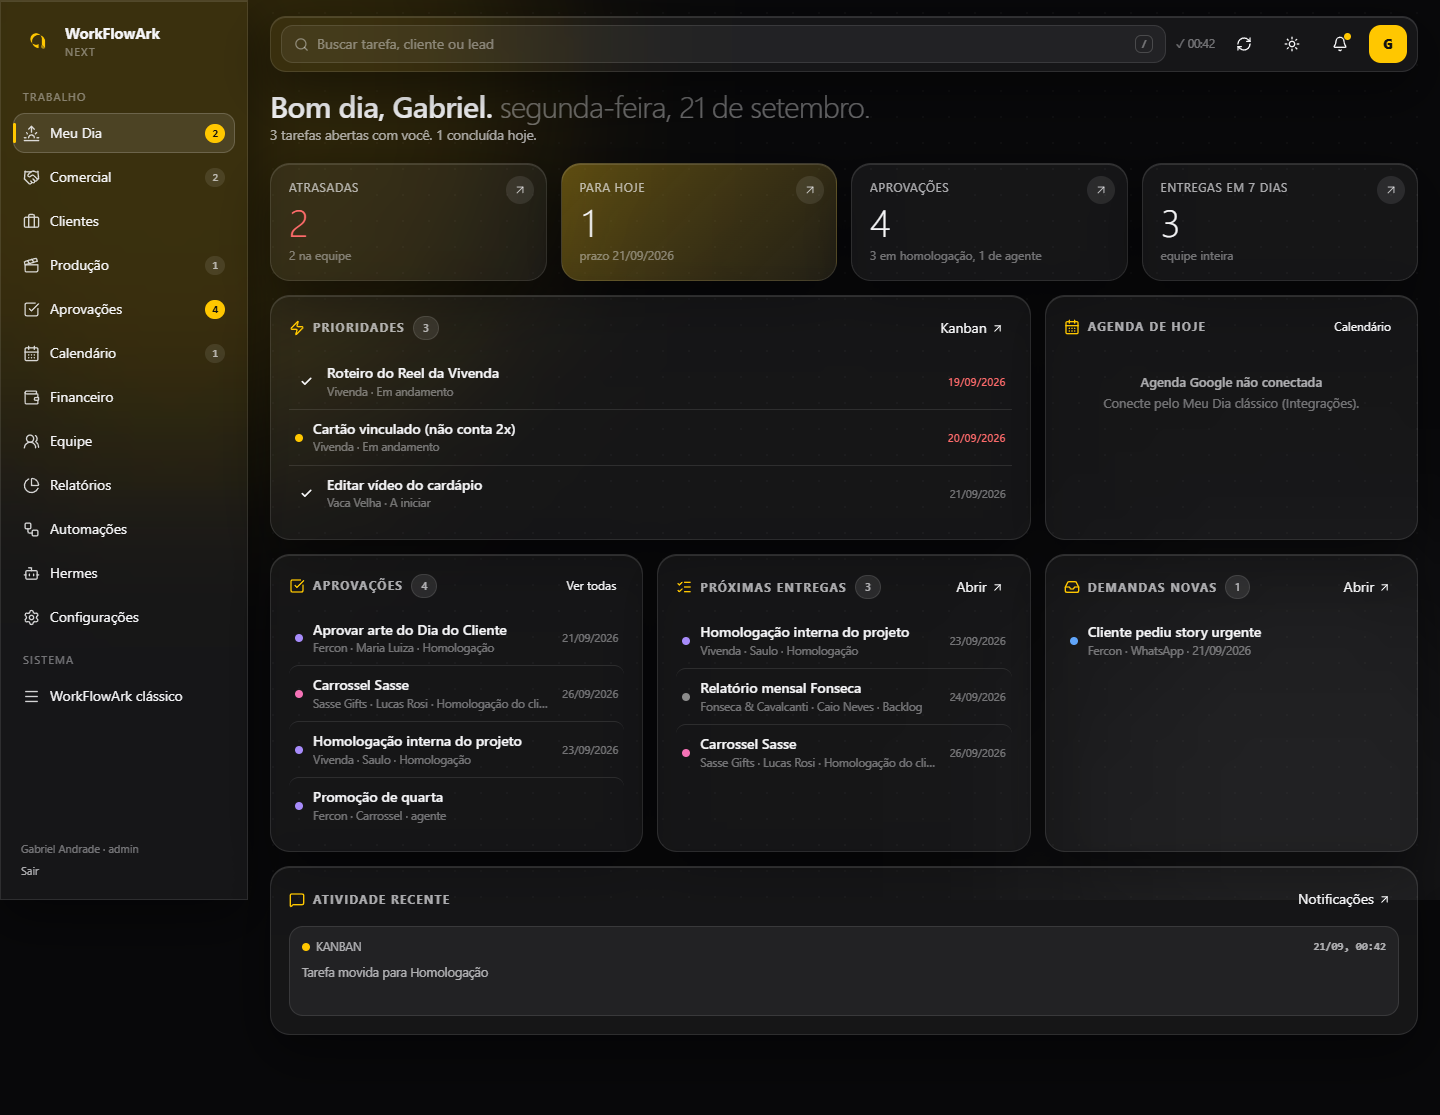
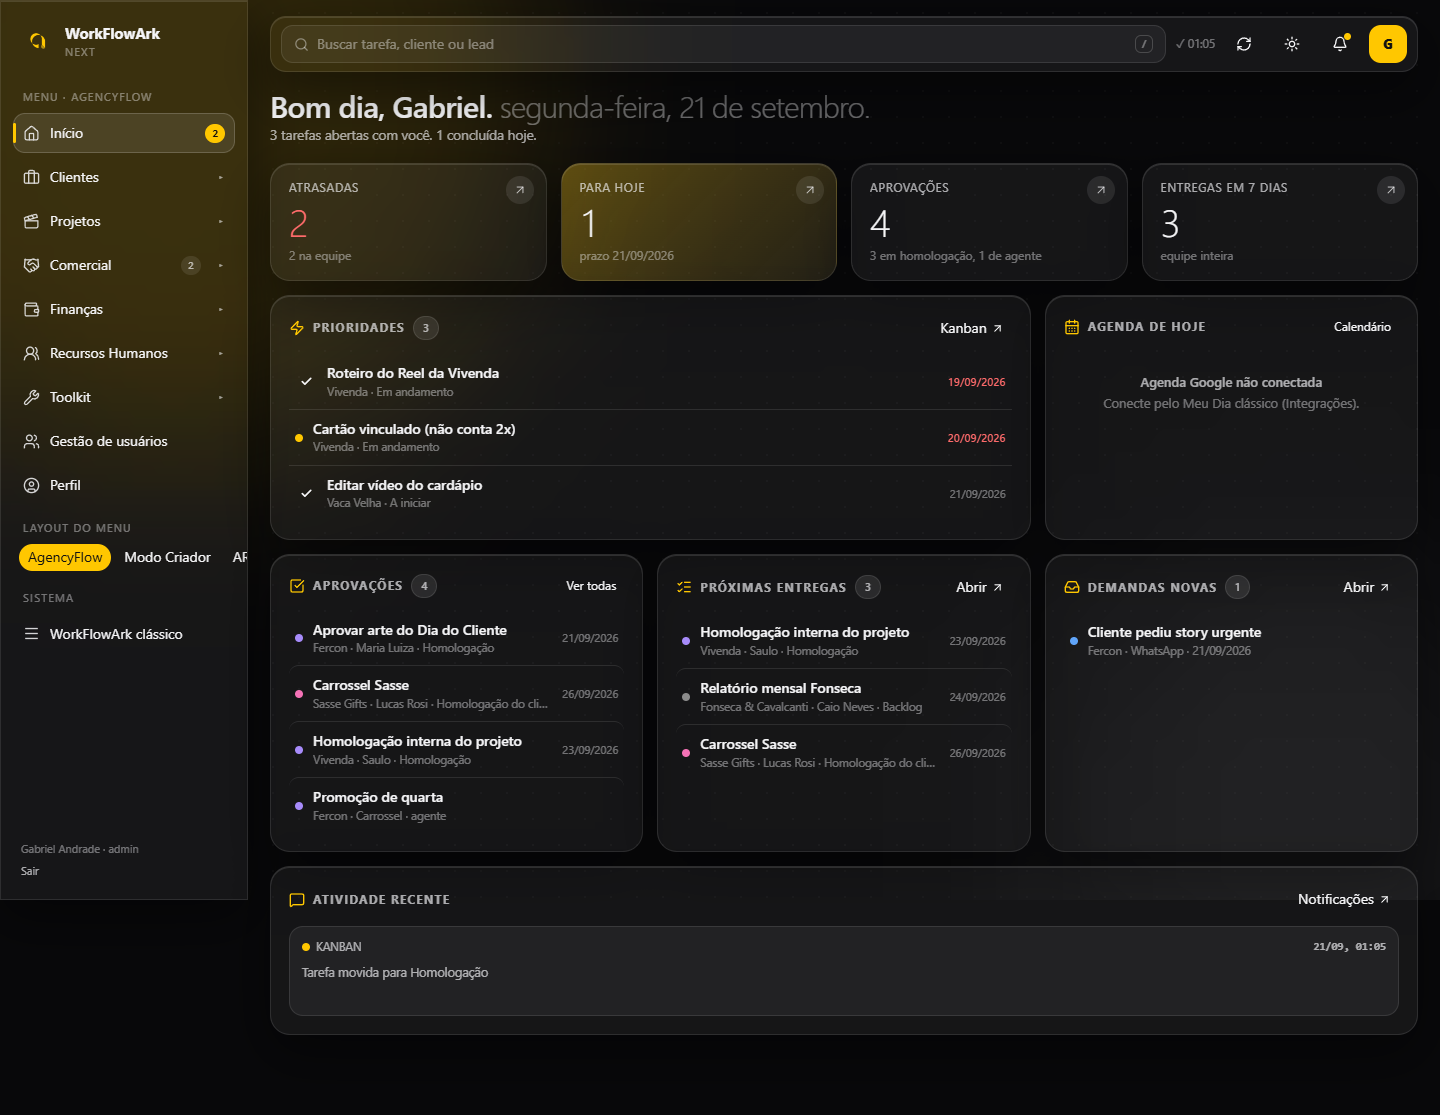
Painel: sidebar com os tópicos e abas do AgencyFlow e do Modo Criador (visual ARK), alternável com o menu ARK

diff --git a/src/components/next/menus.tsx b/src/components/next/menus.tsx
@@ -1,0 +1,117 @@
+// Sidebars copiadas dos benchmarks (21/09/2026, pedido do Gabriel): a estrutura exata de
+// grupos e subitens do AgencyFlow (05-MATRIZ, E01 a E05) e do Modo Criador (06, s35), cada
+// item apontando pra tela NOSSA que faz aquele trabalho. Terceira opcao: menu ARK original.
+import type { ComponentType } from "react";
+import {
+  BarChart3, BookOpen, Briefcase, CalendarDays, CheckSquare, Clapperboard, FileSignature, FolderOpen,
+  Handshake, HelpCircle, Home, Image, Inbox, Instagram, Landmark, LayoutDashboard, ListTodo, PieChart,
+  Settings, ShoppingBag, Sunrise, Trash2, UserCircle, Users, UsersRound, Wallet, Wrench,
+} from "lucide-react";
+
+export type Destino =
+  | { tipo: "painel"; area: string }
+  | { tipo: "classico"; pagina: string }
+  | { tipo: "href"; href: string };
+export type ItemMenu = { label: string; Icon?: ComponentType<{ size?: number; strokeWidth?: number }>; destino: Destino; filhos?: ItemMenu[]; badge?: string };
+export type MenuDef = { id: "agencyflow" | "modocriador" | "ark"; nome: string; fonte: string; itens: ItemMenu[] };
+
+const P = (area: string): Destino => ({ tipo: "painel", area });
+const C = (pagina: string): Destino => ({ tipo: "classico", pagina });
+const H = (href: string): Destino => ({ tipo: "href", href });
+
+export const MENU_AGENCYFLOW: MenuDef = {
+  id: "agencyflow", nome: "AgencyFlow", fonte: "estrutura observada em E01 a E05",
+  itens: [
+    { label: "Início", Icon: Home, destino: P(""), badge: "" },
+    { label: "Clientes", Icon: Briefcase, destino: P("clientes"), filhos: [
+      { label: "Gestão de clientes", destino: P("clientes") },
+      { label: "Análise de churn", destino: P("clientes") },
+      { label: "Contratos", destino: C("contratos") },
+    ] },
+    { label: "Projetos", Icon: Clapperboard, destino: P("producao"), filhos: [
+      { label: "Gestão de entregas", destino: P("producao") },
+      { label: "Tarefas", destino: C("tarefas") },
+      { label: "Agenda de projetos", destino: P("calendario") },
+      { label: "Aprovação de conteúdo", destino: P("aprovacoes"), badge: "aprovacoes" },
+      { label: "Fornecedores", destino: C("alpha") },
+      { label: "Creators", destino: P("equipe") },
+    ] },
+    { label: "Comercial", Icon: Handshake, destino: P("comercial"), badge: "comercial", filhos: [
+      { label: "CRM", destino: P("comercial") },
+      { label: "Esteira de produtos", destino: C("propostas") },
+    ] },
+    { label: "Finanças", Icon: Wallet, destino: P("financeiro"), filhos: [
+      { label: "Recebimentos", destino: P("financeiro") },
+      { label: "Contas a pagar", destino: C("acerto") },
+      { label: "Inadimplência", destino: C("cobranca") },
+      { label: "Relatórios", destino: P("relatorios") },
+    ] },
+    { label: "Recursos Humanos", Icon: UsersRound, destino: P("equipe"), filhos: [
+      { label: "Colaboradores", destino: P("equipe") },
+      { label: "Organograma", destino: C("organograma") },
+      { label: "Rotinas", destino: P("automacoes") },
+    ] },
+    { label: "Toolkit", Icon: Wrench, destino: C("integracoes"), filhos: [
+      { label: "Integrações", destino: C("integracoes") },
+      { label: "Drive", destino: C("drive") },
+      { label: "Notificações", destino: C("notificacoes") },
+    ] },
+    { label: "Gestão de usuários", Icon: Users, destino: P("configuracoes") },
+    { label: "Perfil", Icon: UserCircle, destino: P("configuracoes") },
+  ],
+};
+
+export const MENU_MODOCRIADOR: MenuDef = {
+  id: "modocriador", nome: "Modo Criador", fonte: "barra lateral observada (s35, v2-026)",
+  itens: [
+    { label: "Minhas demandas", Icon: ListTodo, destino: P(""), badge: "" },
+    { label: "Dashboard", Icon: LayoutDashboard, destino: P("relatorios") },
+    { label: "Clientes", Icon: FolderOpen, destino: P("clientes"), filhos: [
+      { label: "Social media", destino: P("clientes") },
+      { label: "Novo cliente", destino: C("lista-clientes") },
+    ] },
+    { label: "Biblioteca", Icon: BookOpen, destino: C("drive") },
+    { label: "Instagram", Icon: Instagram, destino: H("/calendario"), filhos: [
+      { label: "Atividade", destino: C("campanhas") },
+      { label: "Calendário", destino: H("/calendario") },
+    ] },
+    { label: "Vendas", Icon: ShoppingBag, destino: P("comercial"), badge: "comercial" },
+    { label: "Seleção de fotos", Icon: Image, destino: C("drive") },
+    { label: "Lixeira", Icon: Trash2, destino: C("tarefas") },
+    { label: "Visão geral", Icon: PieChart, destino: P("relatorios"), filhos: [
+      { label: "Jornada do cliente", destino: C("jornada") },
+      { label: "Margem por cliente", destino: P("financeiro") },
+      { label: "Pagamentos", destino: C("cobranca") },
+    ] },
+    { label: "Financeiro", Icon: Landmark, destino: P("financeiro"), filhos: [
+      { label: "Seu plano", destino: P("financeiro") },
+    ] },
+    { label: "Equipe", Icon: UsersRound, destino: P("equipe"), filhos: [
+      { label: "Rotina", destino: P("automacoes") },
+      { label: "Membros", destino: P("equipe") },
+      { label: "Relatório", destino: P("relatorios") },
+      { label: "Auditoria de produção", destino: C("notificacoes") },
+    ] },
+    { label: "Ajuda", Icon: HelpCircle, destino: C("tutorial") },
+  ],
+};
+
+export const MENU_ARK: MenuDef = {
+  id: "ark", nome: "ARK", fonte: "áreas por trabalho",
+  itens: [
+    { label: "Meu Dia", Icon: Sunrise, destino: P(""), badge: "" },
+    { label: "Comercial", Icon: Handshake, destino: P("comercial"), badge: "comercial" },
+    { label: "Clientes", Icon: Briefcase, destino: P("clientes") },
+    { label: "Produção", Icon: Clapperboard, destino: P("producao"), badge: "producao" },
+    { label: "Aprovações", Icon: CheckSquare, destino: P("aprovacoes"), badge: "aprovacoes" },
+    { label: "Calendário", Icon: CalendarDays, destino: P("calendario"), badge: "calendario" },
+    { label: "Financeiro", Icon: Wallet, destino: P("financeiro") },
+    { label: "Equipe", Icon: UsersRound, destino: P("equipe") },
+    { label: "Relatórios", Icon: BarChart3, destino: P("relatorios") },
+    { label: "Automações", Icon: Inbox, destino: P("automacoes") },
+    { label: "Hermes", Icon: FileSignature, destino: P("hermes") },
+    { label: "Configurações", Icon: Settings, destino: P("configuracoes") },
+  ],
+};
+
+export const MENUS: MenuDef[] = [MENU_AGENCYFLOW, MENU_MODOCRIADOR, MENU_ARK];

diff --git a/src/routes/_authenticated/painel.tsx b/src/routes/_authenticated/painel.tsx
@@ -7,7 +7,8 @@ import { useCallback, useEffect, useMemo, useRef, useState } from "react";
 import { Bell, Menu, Moon, RefreshCw, Search, Sun, X } from "lucide-react";
 import { supabase } from "@/integrations/supabase/client";
 import { CSS } from "@/components/next/estilo";
-import { AREAS, Ctx, type AreaId, type NextCtx } from "@/components/next/contexto";
+import { Ctx, type AreaId, type NextCtx } from "@/components/next/contexto";
+import { MENUS, type Destino, type MenuDef } from "@/components/next/menus";
 import {
   aberta,
   carregarEstado,
@@ -231,6 +232,24 @@ function NextShell() {
     atualizadoEm,
   };
 
+  // Layout do menu copiado dos benchmarks (AgencyFlow, Modo Criador) ou ARK; guardado por aparelho.
+  const [menuId, setMenuId] = useState<MenuDef["id"]>("agencyflow");
+  const [grupos, setGrupos] = useState<Record<string, boolean>>({});
+  useEffect(() => {
+    try { const v = localStorage.getItem("nx-menu"); if (v === "agencyflow" || v === "modocriador" || v === "ark") setMenuId(v); } catch { /* sem storage */ }
+  }, []);
+  const trocarMenu = (id: MenuDef["id"]) => { setMenuId(id); try { localStorage.setItem("nx-menu", id); } catch { /* sem storage */ } };
+  const menuDef = MENUS.find((m) => m.id === menuId) || MENUS[0];
+  const ir = (d: Destino) => {
+    setMenu(false);
+    if (d.tipo === "painel") {
+      if (d.area === "") navigate({ to: "/painel" });
+      else navigate({ to: "/painel/$area", params: { area: d.area }, search: {} });
+    } else if (d.tipo === "classico") irParaApp(d.pagina);
+    else window.location.href = d.href;
+  };
+  const ativo = (d: Destino) => d.tipo === "painel" && d.area === areaAtual;
+
   const sair = async () => {
     await supabase.auth.signOut();
     navigate({ to: "/auth" });
@@ -264,43 +283,65 @@ function NextShell() {
                 <X size={16} />
               </button>
             </div>
-            <div className="nx-sec">Trabalho</div>
-            {AREAS.map((a) => {
-              const n = badges[a.id] || 0;
-              const on = areaAtual === a.id;
-              const inner = (
-                <>
-                  <a.Icon size={17} strokeWidth={1.9} />
-                  <span>{a.label}</span>
-                  {n > 0 && (
-                    <span className={`n ${a.id === "" || a.id === "aprovacoes" ? "hot" : ""}`}>
-                      {n}
-                    </span>
+            <div className="nx-sec">Menu · {menuDef.nome}</div>
+            {menuDef.itens.map((it) => {
+              const key = it.label;
+              const aberto = !!grupos[key];
+              const on = ativo(it.destino);
+              const n = it.badge !== undefined ? badges[it.badge] || 0 : 0;
+              return (
+                <div key={key}>
+                  <button
+                    type="button"
+                    className={`nx-it ${on ? "on" : ""}`}
+                    onClick={() => {
+                      if (it.filhos) setGrupos((g) => ({ ...g, [key]: !aberto }));
+                      ir(it.destino);
+                    }}
+                  >
+                    {it.Icon && <it.Icon size={17} strokeWidth={1.9} />}
+                    <span>{it.label}</span>
+                    {n > 0 && <span className={`n ${it.badge === "" || it.badge === "aprovacoes" ? "hot" : ""}`}>{n}</span>}
+                    {it.filhos && (
+                      <span style={{ marginLeft: n > 0 ? 6 : "auto", opacity: 0.6, fontSize: 10 }}>{aberto ? "▾" : "▸"}</span>
+                    )}
+                  </button>
+                  {it.filhos && aberto && (
+                    <div style={{ margin: "2px 0 6px 14px", paddingLeft: 10, borderLeft: "1px solid var(--line)" }}>
+                      {it.filhos.map((f) => {
+                        const fn = f.badge ? badges[f.badge] || 0 : 0;
+                        return (
+                          <button
+                            key={f.label}
+                            type="button"
+                            className={`nx-it ${ativo(f.destino) ? "on" : ""}`}
+                            style={{ minHeight: 34, fontSize: 13 }}
+                            onClick={() => ir(f.destino)}
+                          >
+                            <span>{f.label}</span>
+                            {fn > 0 && <span className="n hot">{fn}</span>}
+                          </button>
+                        );
+                      })}
+                    </div>
                   )}
-                </>
-              );
-              return a.id === "" ? (
-                <Link
-                  key="home"
-                  to="/painel"
-                  className={`nx-it ${on ? "on" : ""}`}
-                  onClick={() => setMenu(false)}
-                >
-                  {inner}
-                </Link>
-              ) : (
-                <Link
-                  key={a.id}
-                  to="/painel/$area"
-                  params={{ area: a.id }}
-                  search={{}}
-                  className={`nx-it ${on ? "on" : ""}`}
-                  onClick={() => setMenu(false)}
-                >
-                  {inner}
-                </Link>
+                </div>
               );
             })}
+            <div className="nx-sec">Layout do menu</div>
+            <div style={{ display: "flex", flexWrap: "wrap", gap: 4, padding: "0 6px 4px" }}>
+              {MENUS.map((m) => (
+                <button
+                  key={m.id}
+                  type="button"
+                  className={`nx-pill ${m.id === menuId ? "yel" : ""}`}
+                  title={`Estrutura copiada: ${m.fonte}`}
+                  onClick={() => trocarMenu(m.id)}
+                >
+                  {m.nome}
+                </button>
+              ))}
+            </div>
             <div className="nx-sec">Sistema</div>
             <a className="nx-it" href="/app">
               <Menu size={17} strokeWidth={1.9} />
